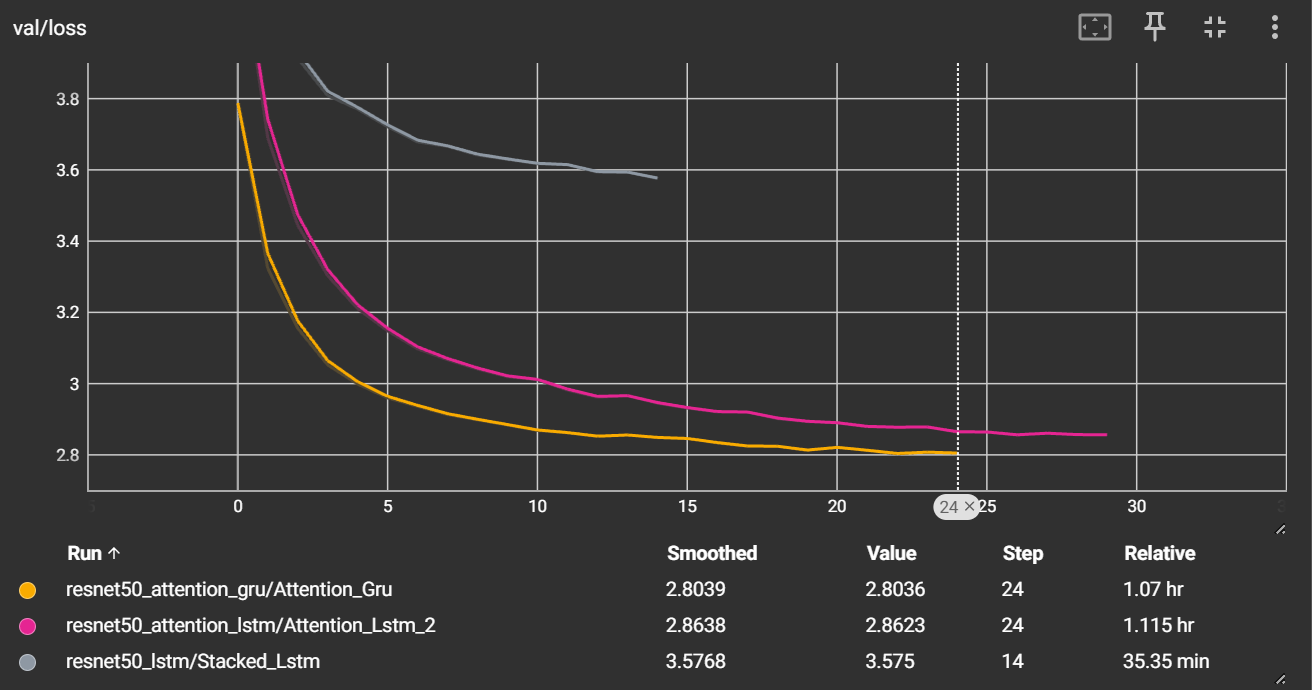
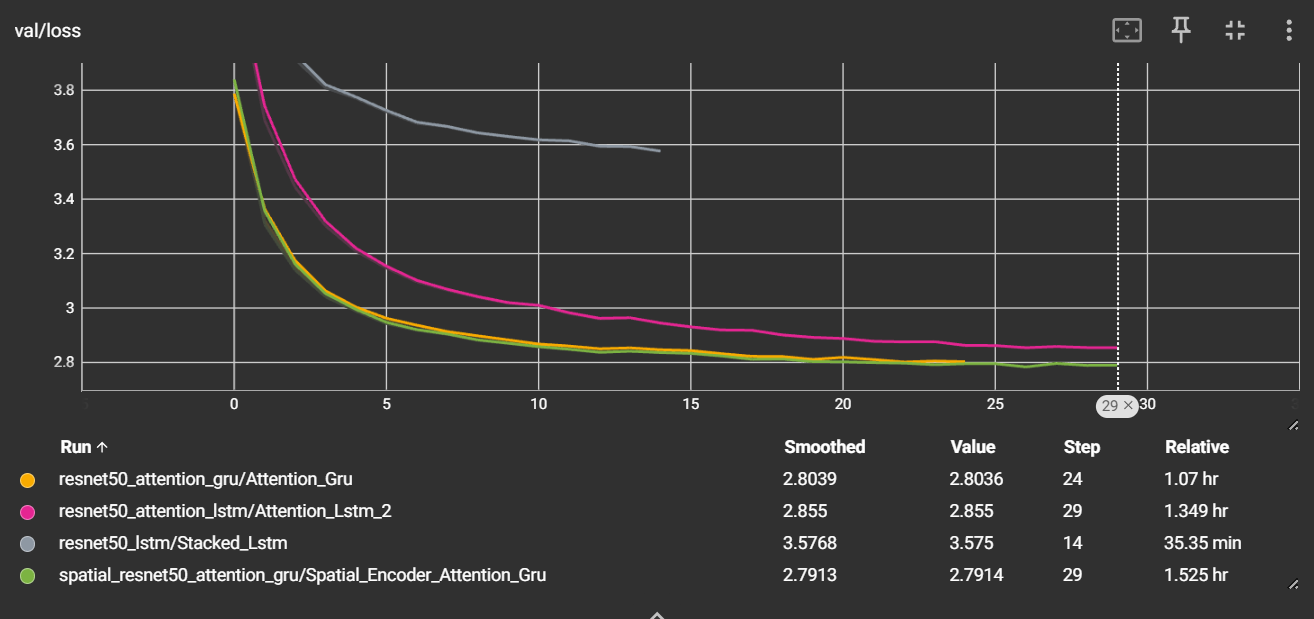
add spatial resnet encoder and train it

diff --git a/src/models/components/attention_gru_decoder.py b/src/models/components/attention_gru_decoder.py
@@ -19,25 +19,39 @@ class AttentionGRUDecoder(nn.Module):
         self.num_layers = num_layers
 
         self.embedding = nn.Embedding(vocab_size, embed_size)
-        self.attention = Attention(embed_size, hidden_size, attention_dim)
+        self.attention = Attention(
+            embed_size, hidden_size, attention_dim
+        )  # encoder_dim = embed_size
 
         self.gru = nn.GRU(
-            input_size=embed_size + embed_size,
+            input_size=embed_size + embed_size,  # word embedding + context
             hidden_size=hidden_size,
             num_layers=num_layers,
-            batch_first=True,  # Crucial for [batch, seq, feature]
+            batch_first=True,
             dropout=dropout if num_layers > 1 else 0,
         )
 
         self.fc = nn.Linear(hidden_size, vocab_size)
         self.dropout = nn.Dropout(dropout)
+
+        # Initialize hidden state from MEAN of spatial features
         self.init_h = nn.Linear(embed_size, hidden_size)
 
         self.vocab_size = vocab_size
 
     def init_hidden_state(self, features):
-        # nn.LSTM expects states shaped: (num_layers, batch, hidden_size)
-        h = self.init_h(features).unsqueeze(0).repeat(self.num_layers, 1, 1)
+        # Handle both shapes:
+        # - Old encoder: [batch, embed_size]
+        # - New encoder: [batch, num_pixels, embed_size]
+
+        if features.ndim == 2:
+            # Old encoder: [batch, embed_size]
+            mean_features = features
+        else:
+            # New encoder: [batch, num_pixels, embed_size]
+            mean_features = features.mean(dim=1)
+
+        h = self.init_h(mean_features).unsqueeze(0).repeat(self.num_layers, 1, 1)
         return h
 
     def forward(self, features, captions, lengths):
@@ -47,21 +61,18 @@ class AttentionGRUDecoder(nn.Module):
         embeddings = self.dropout(self.embedding(captions))
         h = self.init_hidden_state(features)
 
+        # Handle both encoder types for attention
+        if features.ndim == 2:
+            # Old encoder: add sequence dimension
+            features = features.unsqueeze(1)  # [batch, 1, embed_size]
+
         outputs = []
         alphas = []
-        features_expanded = features.unsqueeze(1)
 
         for t in range(max_length):
-            # We use the top-layer hidden state (h[-1]) for attention
-            context, alpha = self.attention(features_expanded, h[-1])
-
-            # nn.LSTM needs a sequence dimension, so we unsqueeze to [batch, 1, dim]
+            context, alpha = self.attention(features, h[-1])
             lstm_input = torch.cat([embeddings[:, t, :], context], dim=1).unsqueeze(1)
-
-            # Pass through LSTM (it handles all layers internally)
             output, h = self.gru(lstm_input, h)
-
-            # Predict next word (squeeze the seq dimension back)
             preds = self.fc(self.dropout(output.squeeze(1)))
 
             outputs.append(preds)
@@ -73,26 +84,21 @@ class AttentionGRUDecoder(nn.Module):
         result = []
         attention_weights = []
 
-        # Initialize hidden state: [num_layers, 1, hidden_size]
         h = self.init_hidden_state(features)
 
-        features_expanded = features.unsqueeze(1)
+        # Handle both encoder types
+        if features.ndim == 2:
+            features = features.unsqueeze(1)  # [batch, 1, embed_size]
+
         word = torch.tensor([vocab.start_idx]).to(device)
 
         for _ in range(max_length):
-            word_embed = self.embedding(word)  # [1, embed_size]
-
-            # Use top layer (h[-1]) for attention
-            context, alpha = self.attention(features_expanded, h[-1])
+            word_embed = self.embedding(word)
+            context, alpha = self.attention(features, h[-1])
             attention_weights.append(alpha.squeeze(0).cpu().detach().numpy())
 
-            # Concat word and context, then add the sequence dimension (dim=1)
             lstm_input = torch.cat([word_embed, context], dim=1).unsqueeze(1)
-
-            # Pass through LSTM
             output, h = self.gru(lstm_input, h)
-
-            # Predict (Squeeze the sequence dimension back for the FC layer)
             output = self.fc(output.squeeze(1))
             predicted = output.argmax(1)
 
@@ -105,9 +111,9 @@ class AttentionGRUDecoder(nn.Module):
         return result, attention_weights
 
     def beam_search(self, features, vocab, beam_width=5, max_length=20, device="cpu"):
+        # features: [1, 49, embed_size]
         k = beam_width
         h = self.init_hidden_state(features)
-        features_expanded = features.unsqueeze(1)
 
         sequences = [[vocab.start_idx]]
         scores = [0.0]
@@ -128,12 +134,11 @@ class AttentionGRUDecoder(nn.Module):
                 word = torch.tensor([seq[-1]]).to(device)
                 word_embed = self.embedding(word)
 
-                context, alpha = self.attention(features_expanded, h_current[-1])
+                # Attention over spatial features
+                context, alpha = self.attention(features, h_current[-1])
 
                 lstm_input = torch.cat([word_embed, context], dim=1).unsqueeze(1)
-
                 output, h_new = self.gru(lstm_input, h_current)
-
                 output = self.fc(output.squeeze(1))
                 log_probs = F.log_softmax(output, dim=1)
                 top_log_probs, top_indices = log_probs.topk(k, dim=1)

diff --git a/src/models/components/spatial_resnet_encoder.py b/src/models/components/spatial_resnet_encoder.py
@@ -1,0 +1,45 @@
+import torch
+import torch.nn as nn
+from torchvision.models import resnet50, ResNet50_Weights
+
+
+class SpatialResNet50Encoder(nn.Module):
+    def __init__(
+        self, embed_size: int = 512, pretrained: bool = True, freeze: bool = True
+    ):
+        super().__init__()
+        if pretrained:
+            weights = ResNet50_Weights.DEFAULT
+            full_resnet = resnet50(weights=weights)
+        else:
+            full_resnet = resnet50(weights=None)
+
+        # 1. Remove the last two layers: AvgPool and FC
+        self.resnet = nn.Sequential(*list(full_resnet.children())[:-2])
+
+        # 2. Freeze encoder if requested
+        if freeze:
+            for param in self.resnet.parameters():
+                param.requires_grad = False
+
+        # 3. Create a projection layer to reach your desired embed_size
+        self.embed_projection = nn.Linear(2048, embed_size)
+
+    def forward(self, x):
+        # x shape: [batch, 3, 224, 224]
+        features = self.resnet(x)
+        # features shape: [batch, 2048, 7, 7]
+
+        # 4. Reshape to get the "49 feature vectors" (7x7=49)
+        # We permute so that the 2048 (features) is the last dimension
+        features = features.permute(0, 2, 3, 1)
+        # New shape: [batch, 7, 7, 2048]
+
+        features = features.view(features.size(0), -1, features.size(3))
+        # Final shape: [batch, 49, 2048]
+
+        # 5. Project each of the 49 vectors to your embed_size
+        embeddings = self.embed_projection(features)
+        # Final shape: [batch, 49, embed_size]
+
+        return embeddings

diff --git a/src/core/trainer.py b/src/core/trainer.py
@@ -425,7 +425,7 @@ class Trainer:
             # Log metrics
             if self.logger:
                 self.logger.log_metrics(
-                    {k + "_epoch": v for k, v in val_metrics.items()},
+                    {k: v for k, v in val_metrics.items()},
                     self.current_epoch,
                 )
 

diff --git a/src/models/components/resnet_encoder.py b/src/models/components/resnet_encoder.py
@@ -23,4 +23,4 @@ class ResNet50Encoder(nn.Module):
         self.resnet.fc = nn.Linear(num_features, out_features=embed_size)
 
     def forward(self, x):
-        return self.resnet(x)
+        return self.resnet(x)  # [batch, embed_size]

diff --git a/README.md b/README.md
@@ -29,6 +29,9 @@ Two different architectures were implemented and evaluated:
    - Attention dimension of 512
    - GRU hidden dimension of 512
 
+4. **ResNet50(Spatial features) + Attention + Stacked GRU**
+   - Removed ResNet50 AvgPooling and fc layers and just used 49 raw features instead.
+
 ### Dataset
 
 The models were trained and evaluated on the **Flickr8k** dataset. Each image is paired with multiple human annotated captions. Standard train, validation, and test splits were used.
@@ -38,13 +41,6 @@ The models were trained and evaluated on the **Flickr8k** dataset. Each image is
 - Optimizer: Adam
 - Loss function: Masked Cross Entropy Loss to properly ignore padding tokens
 - Number of epochs: 30
-
-Final training metrics for the attention based model:
-
-| Split      | Loss  | Perplexity |
-| ---------- | ----- | ---------- |
-| Train      | 2.554 | 12.89      |
-| Validation | 2.855 | 17.85      |
 
 ### Metrics Comparison
 
@@ -78,9 +74,11 @@ The GRU based model was also evaluated using BLEU scores with both greedy decodi
 | BLEU 1 | 0.3184       | 0.3014                       |
 | BLEU 2 | 0.1792       | 0.1732                       |
 | BLEU 3 | 0.1061       | 0.1050                       |
-| BLEU 4 | 0.0637       | 0.0651
+| BLEU 4 | 0.0637       | 0.0651                       | 
 
 Beam search provided a slight improvement in higher order BLEU scores, while greedy decoding performed comparably on unigram precision. This behavior is consistent with common observations in image captioning models.
+
+Adding Spatial Features did not improve the BLEU metrics that much
 
 ### Examples
 
